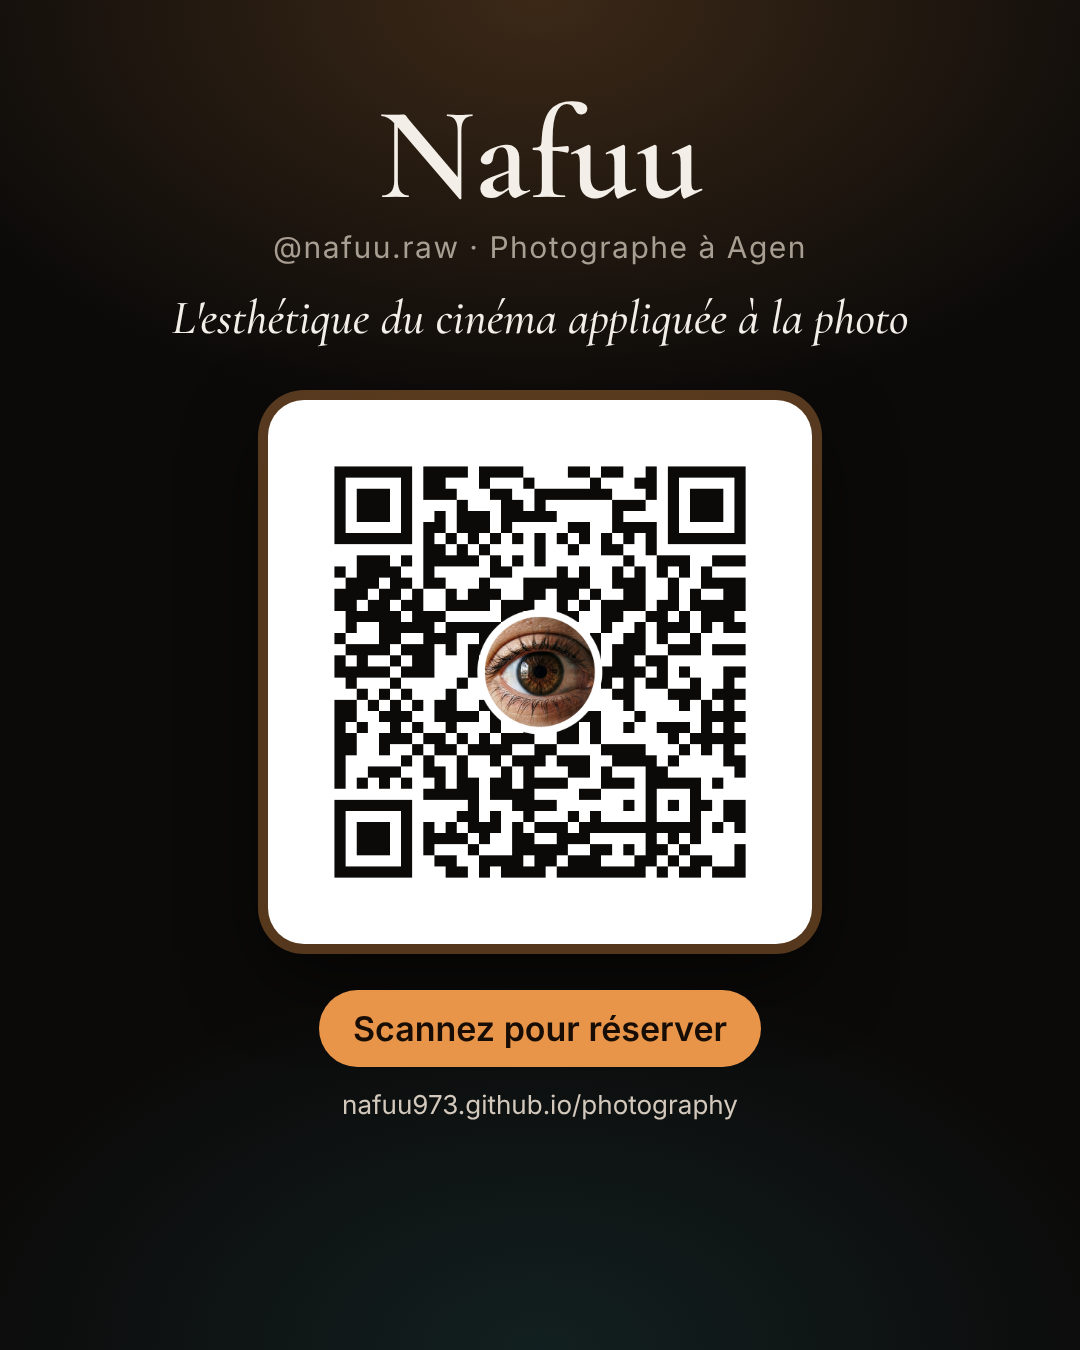
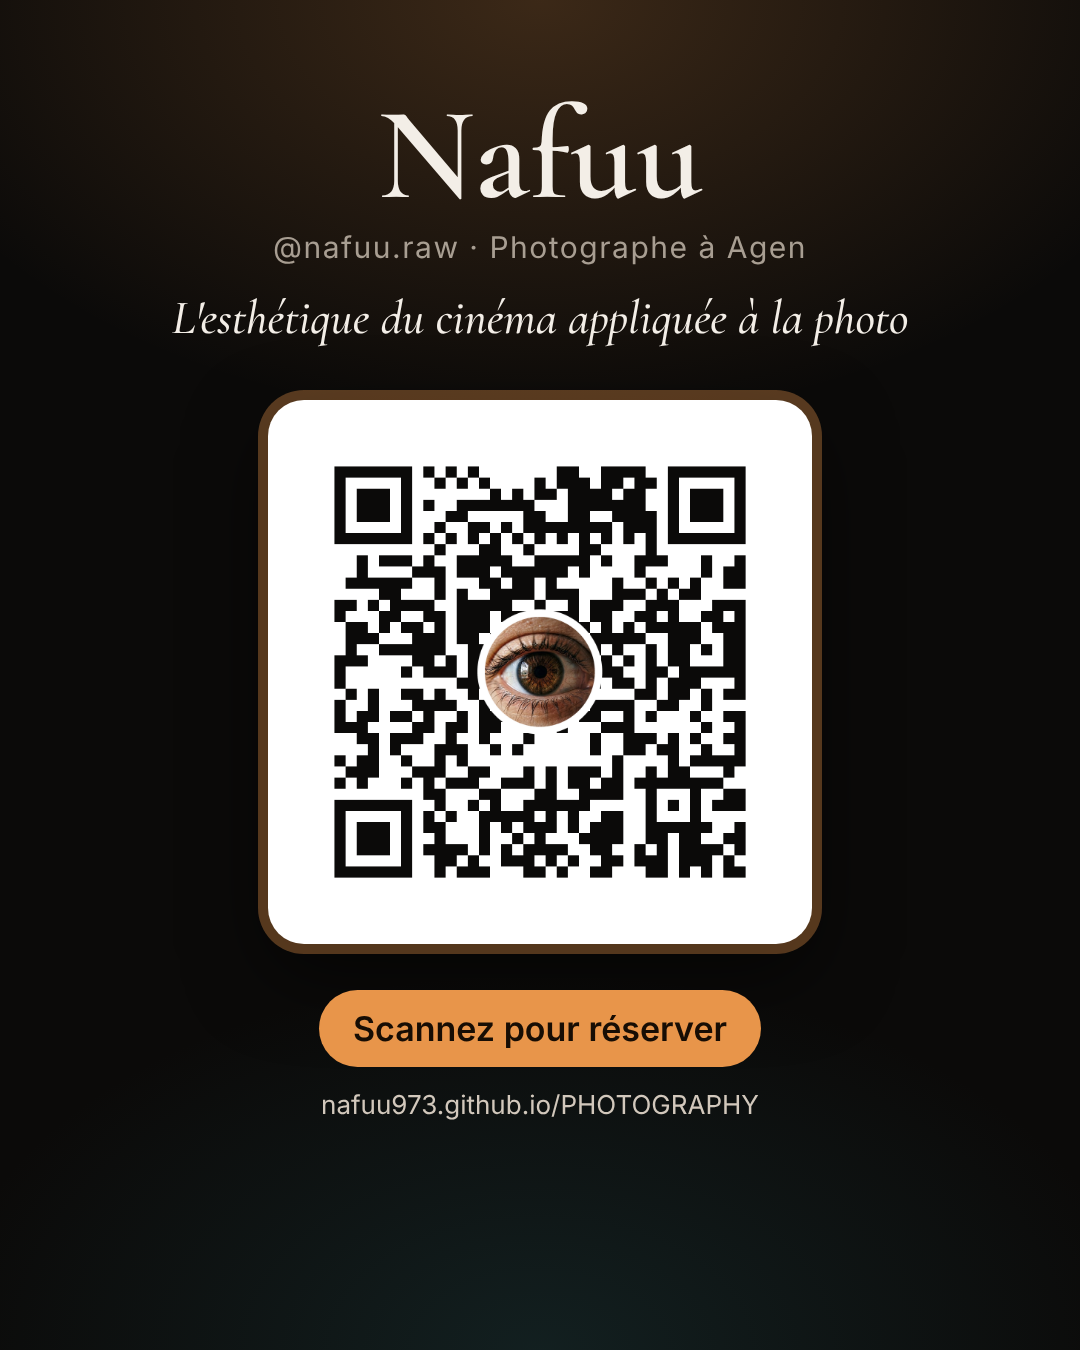
Adresse du site en majuscules (dépôt PHOTOGRAPHY)
- Liens canoniques, Open Graph, données structurées et README mis à jour
- QR codes (PNG, SVG, logo) et carte régénérés vers
  https://nafuu973.github.io/PHOTOGRAPHY/ ; masque 0 choisi pour être
  lu par tous les décodeurs testés (OpenCV x2, ZXing)

Claude-Session: https://claude.ai/code/session_019NW4MJfiJfoEGEsYgZxWGX

Changed region(s): [[0.3056, 0.3422, 0.7028, 0.6533], [0.3056, 0.8089, 0.7028, 0.84]]

diff --git a/index.html b/index.html
@@ -8,16 +8,16 @@
 
   <title>Nafuu · Photographe mariage &amp; shooting à Agen</title>
   <meta name="description" content="L'esthétique du cinéma appliquée à la photo. Photographe à Agen : mariages, shootings privés (portrait, couple, véhicule, animaux). Devis gratuit et sur mesure.">
-  <link rel="canonical" href="https://nafuu973.github.io/photography/">
+  <link rel="canonical" href="https://nafuu973.github.io/PHOTOGRAPHY/">
   <meta name="theme-color" content="#0b0a09">
 
   <!-- Partage (WhatsApp, Facebook, Instagram…) -->
   <meta property="og:type" content="website">
   <meta property="og:locale" content="fr_FR">
-  <meta property="og:url" content="https://nafuu973.github.io/photography/">
+  <meta property="og:url" content="https://nafuu973.github.io/PHOTOGRAPHY/">
   <meta property="og:title" content="Nafuu · Photographe mariage & shooting à Agen">
   <meta property="og:description" content="L'esthétique du cinéma appliquée à la photo. Devis gratuit et sur mesure.">
-  <meta property="og:image" content="https://nafuu973.github.io/photography/assets/img/partage.jpg">
+  <meta property="og:image" content="https://nafuu973.github.io/PHOTOGRAPHY/assets/img/partage.jpg">
   <meta property="og:image:width" content="1200">
   <meta property="og:image:height" content="630">
   <meta property="og:image:alt" content="Nafuu, photographe à Agen — l'esthétique du cinéma appliquée à la photo">
@@ -35,8 +35,8 @@
     "@type": "ProfessionalService",
     "name": "Nafuu · nafuu.raw",
     "description": "Photographe mariage et shooting privé à Agen, à l'esthétique cinéma (objectif anamorphique).",
-    "url": "https://nafuu973.github.io/photography/",
-    "image": "https://nafuu973.github.io/photography/assets/img/profil.jpg",
+    "url": "https://nafuu973.github.io/PHOTOGRAPHY/",
+    "image": "https://nafuu973.github.io/PHOTOGRAPHY/assets/img/profil.jpg",
     "telephone": "+33786887651",
     "email": "nafuu.raw@gmail.com",
     "areaServed": "Agen et alentours",

diff --git a/tools/carte-qr.html b/tools/carte-qr.html
@@ -15,5 +15,5 @@ h1{font-family:"Cormorant Garamond";font-weight:600;font-size:132px;line-height:
 <p class="t">L'esthétique du cinéma appliquée à la photo</p>
 <div class="qr"><img src="../assets/qr/qr-nafuu-logo.png" alt=""></div>
 <p class="c">Scannez pour réserver</p>
-<p class="u">nafuu973.github.io/photography</p>
+<p class="u">nafuu973.github.io/PHOTOGRAPHY</p>
 </body></html>

diff --git a/README.md b/README.md
@@ -3,7 +3,7 @@
 Page « linktree » de **Nafuu**, photographe à Agen.
 *L'esthétique du cinéma appliquée à la photo.*
 
-🔗 **Adresse publique :** https://nafuu973.github.io/photography/
+🔗 **Adresse publique :** https://nafuu973.github.io/PHOTOGRAPHY/
 
 La page met en avant les offres qui rapportent le plus : **mariage & événement**,
 **shooting privé** et **carte cadeau**. Chaque bouton ouvre WhatsApp avec un
@@ -65,7 +65,7 @@ crayon ✏, puis sur **Commit changes**.
 | `assets/qr/qr-nafuu-logo.png` | QR seul avec l'œil au centre |
 | `assets/qr/qr-nafuu.png` / `.svg` | QR simple (le SVG s'imprime à n'importe quelle taille) |
 
-Le QR pointe vers https://nafuu973.github.io/photography/ (correction d'erreur
+Le QR pointe vers https://nafuu973.github.io/PHOTOGRAPHY/ (correction d'erreur
 maximale : il reste lisible même abîmé ou imprimé petit, 2 cm minimum).
 
 ## Mise en ligne (GitHub Pages)
